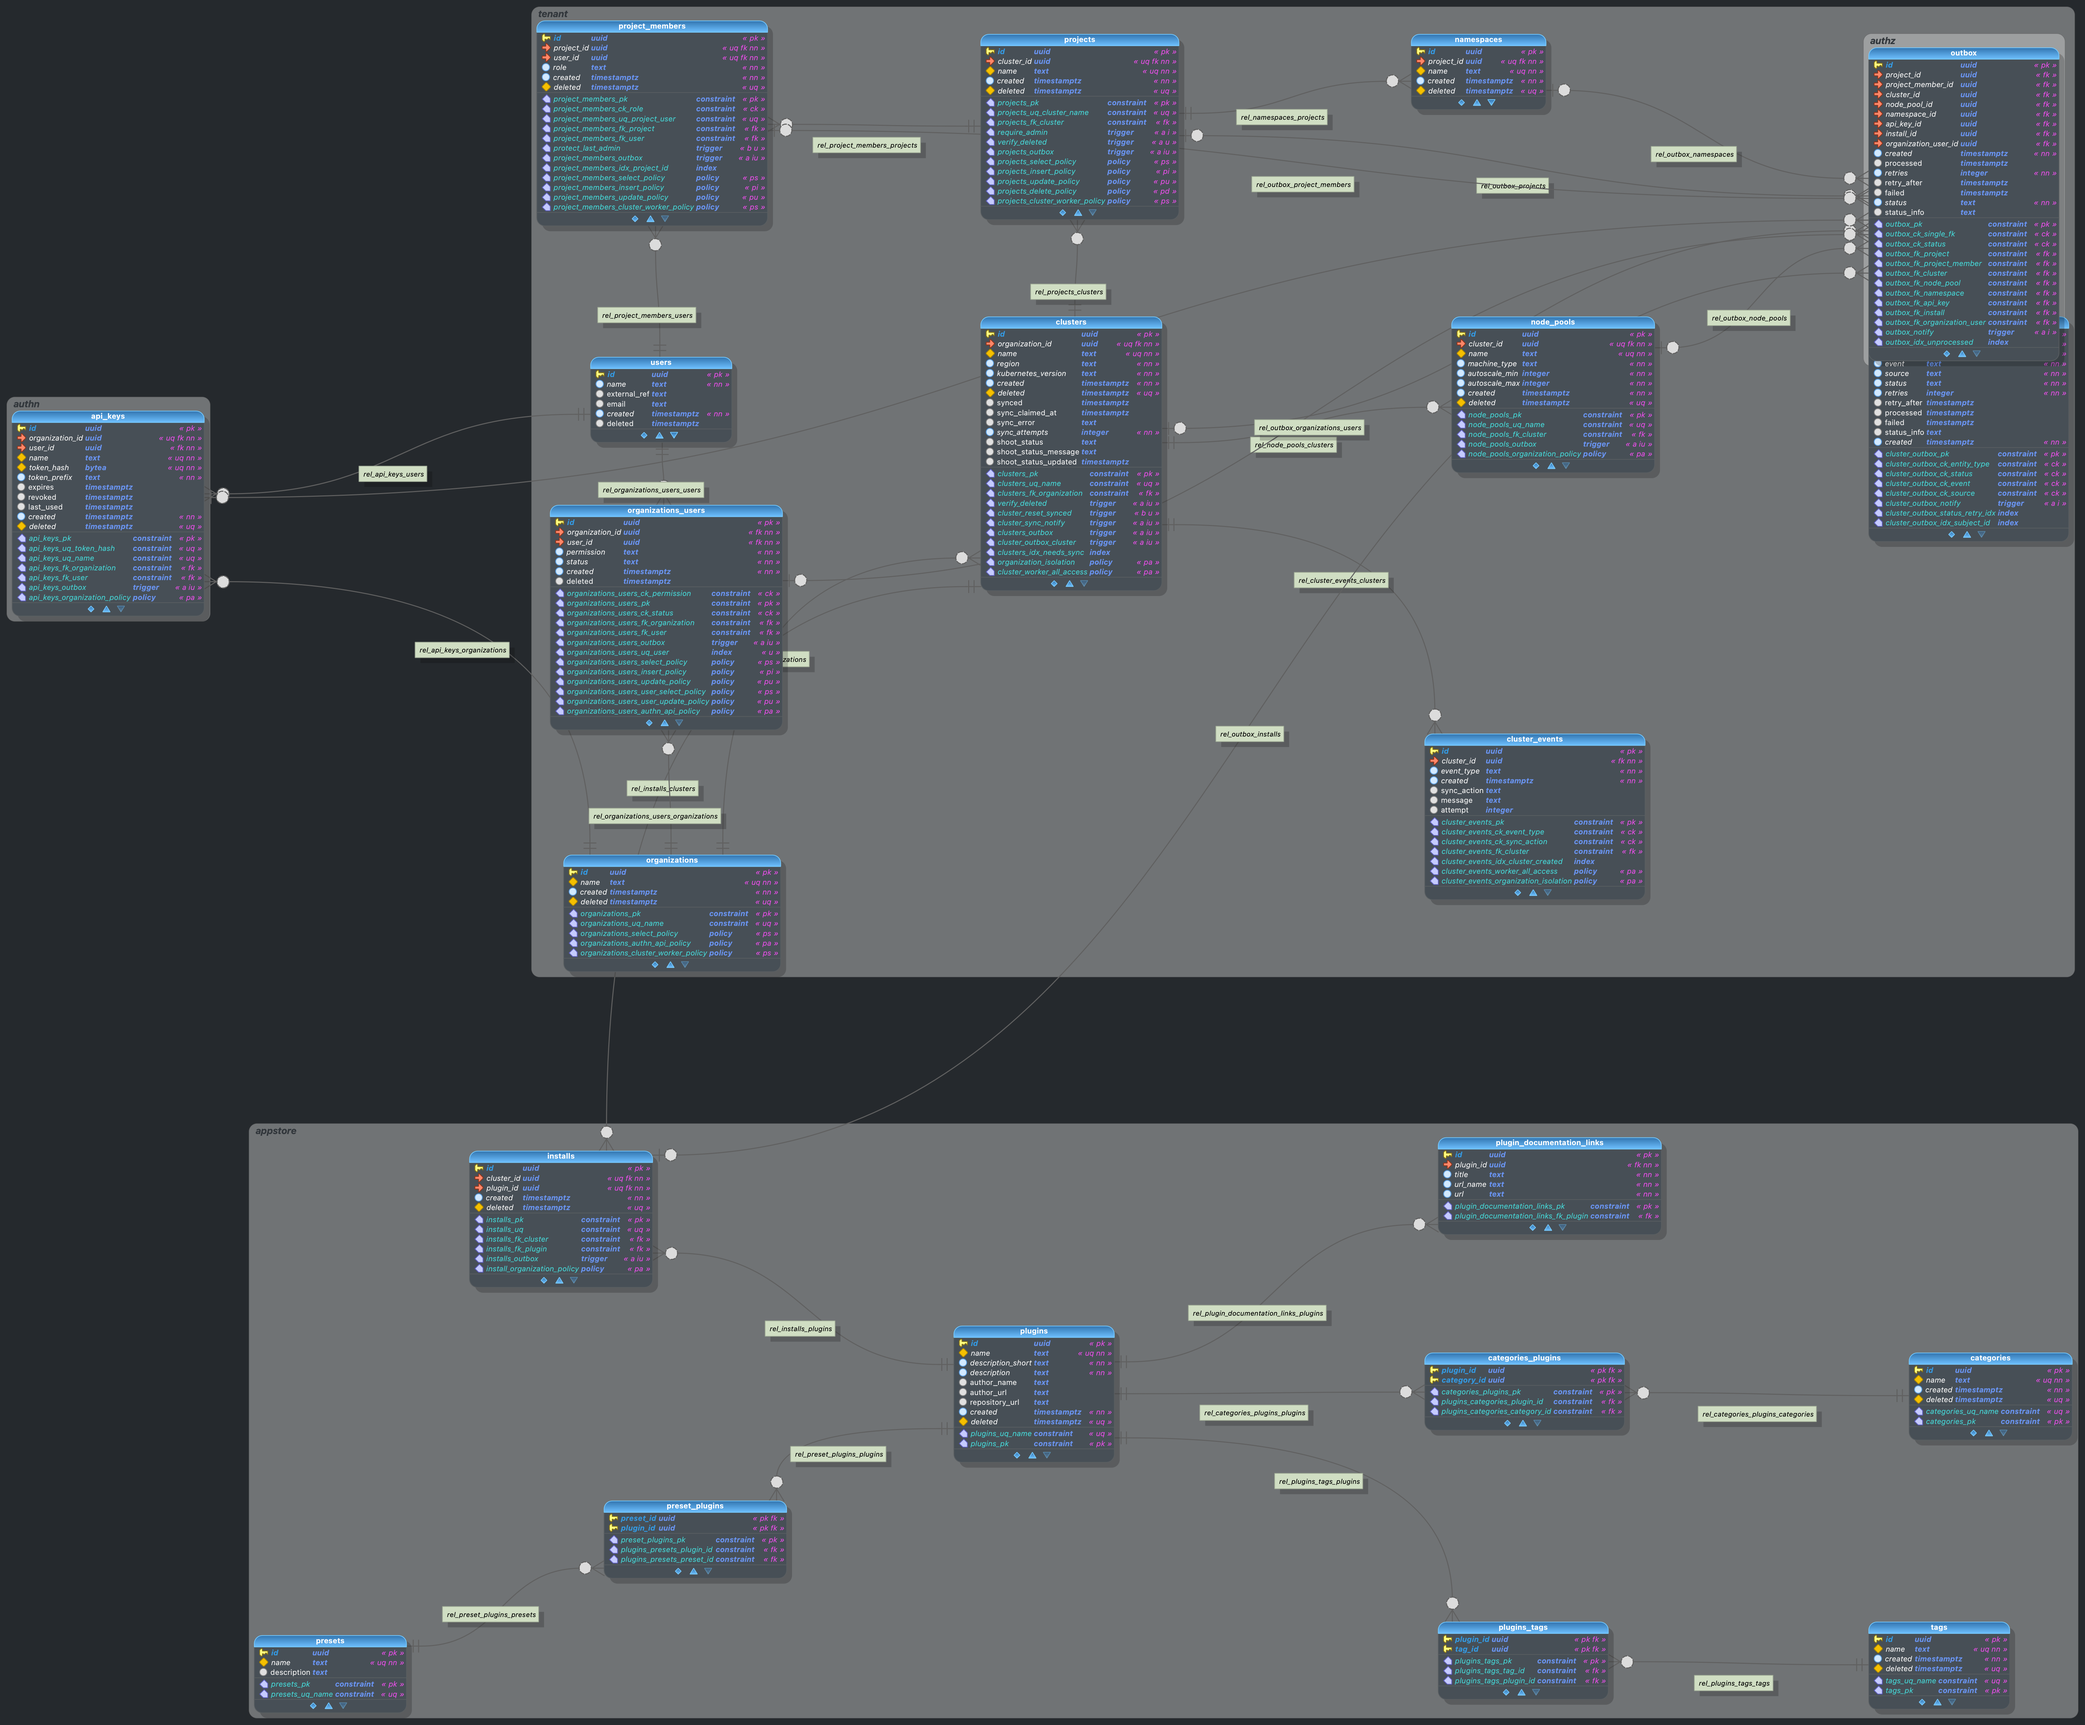
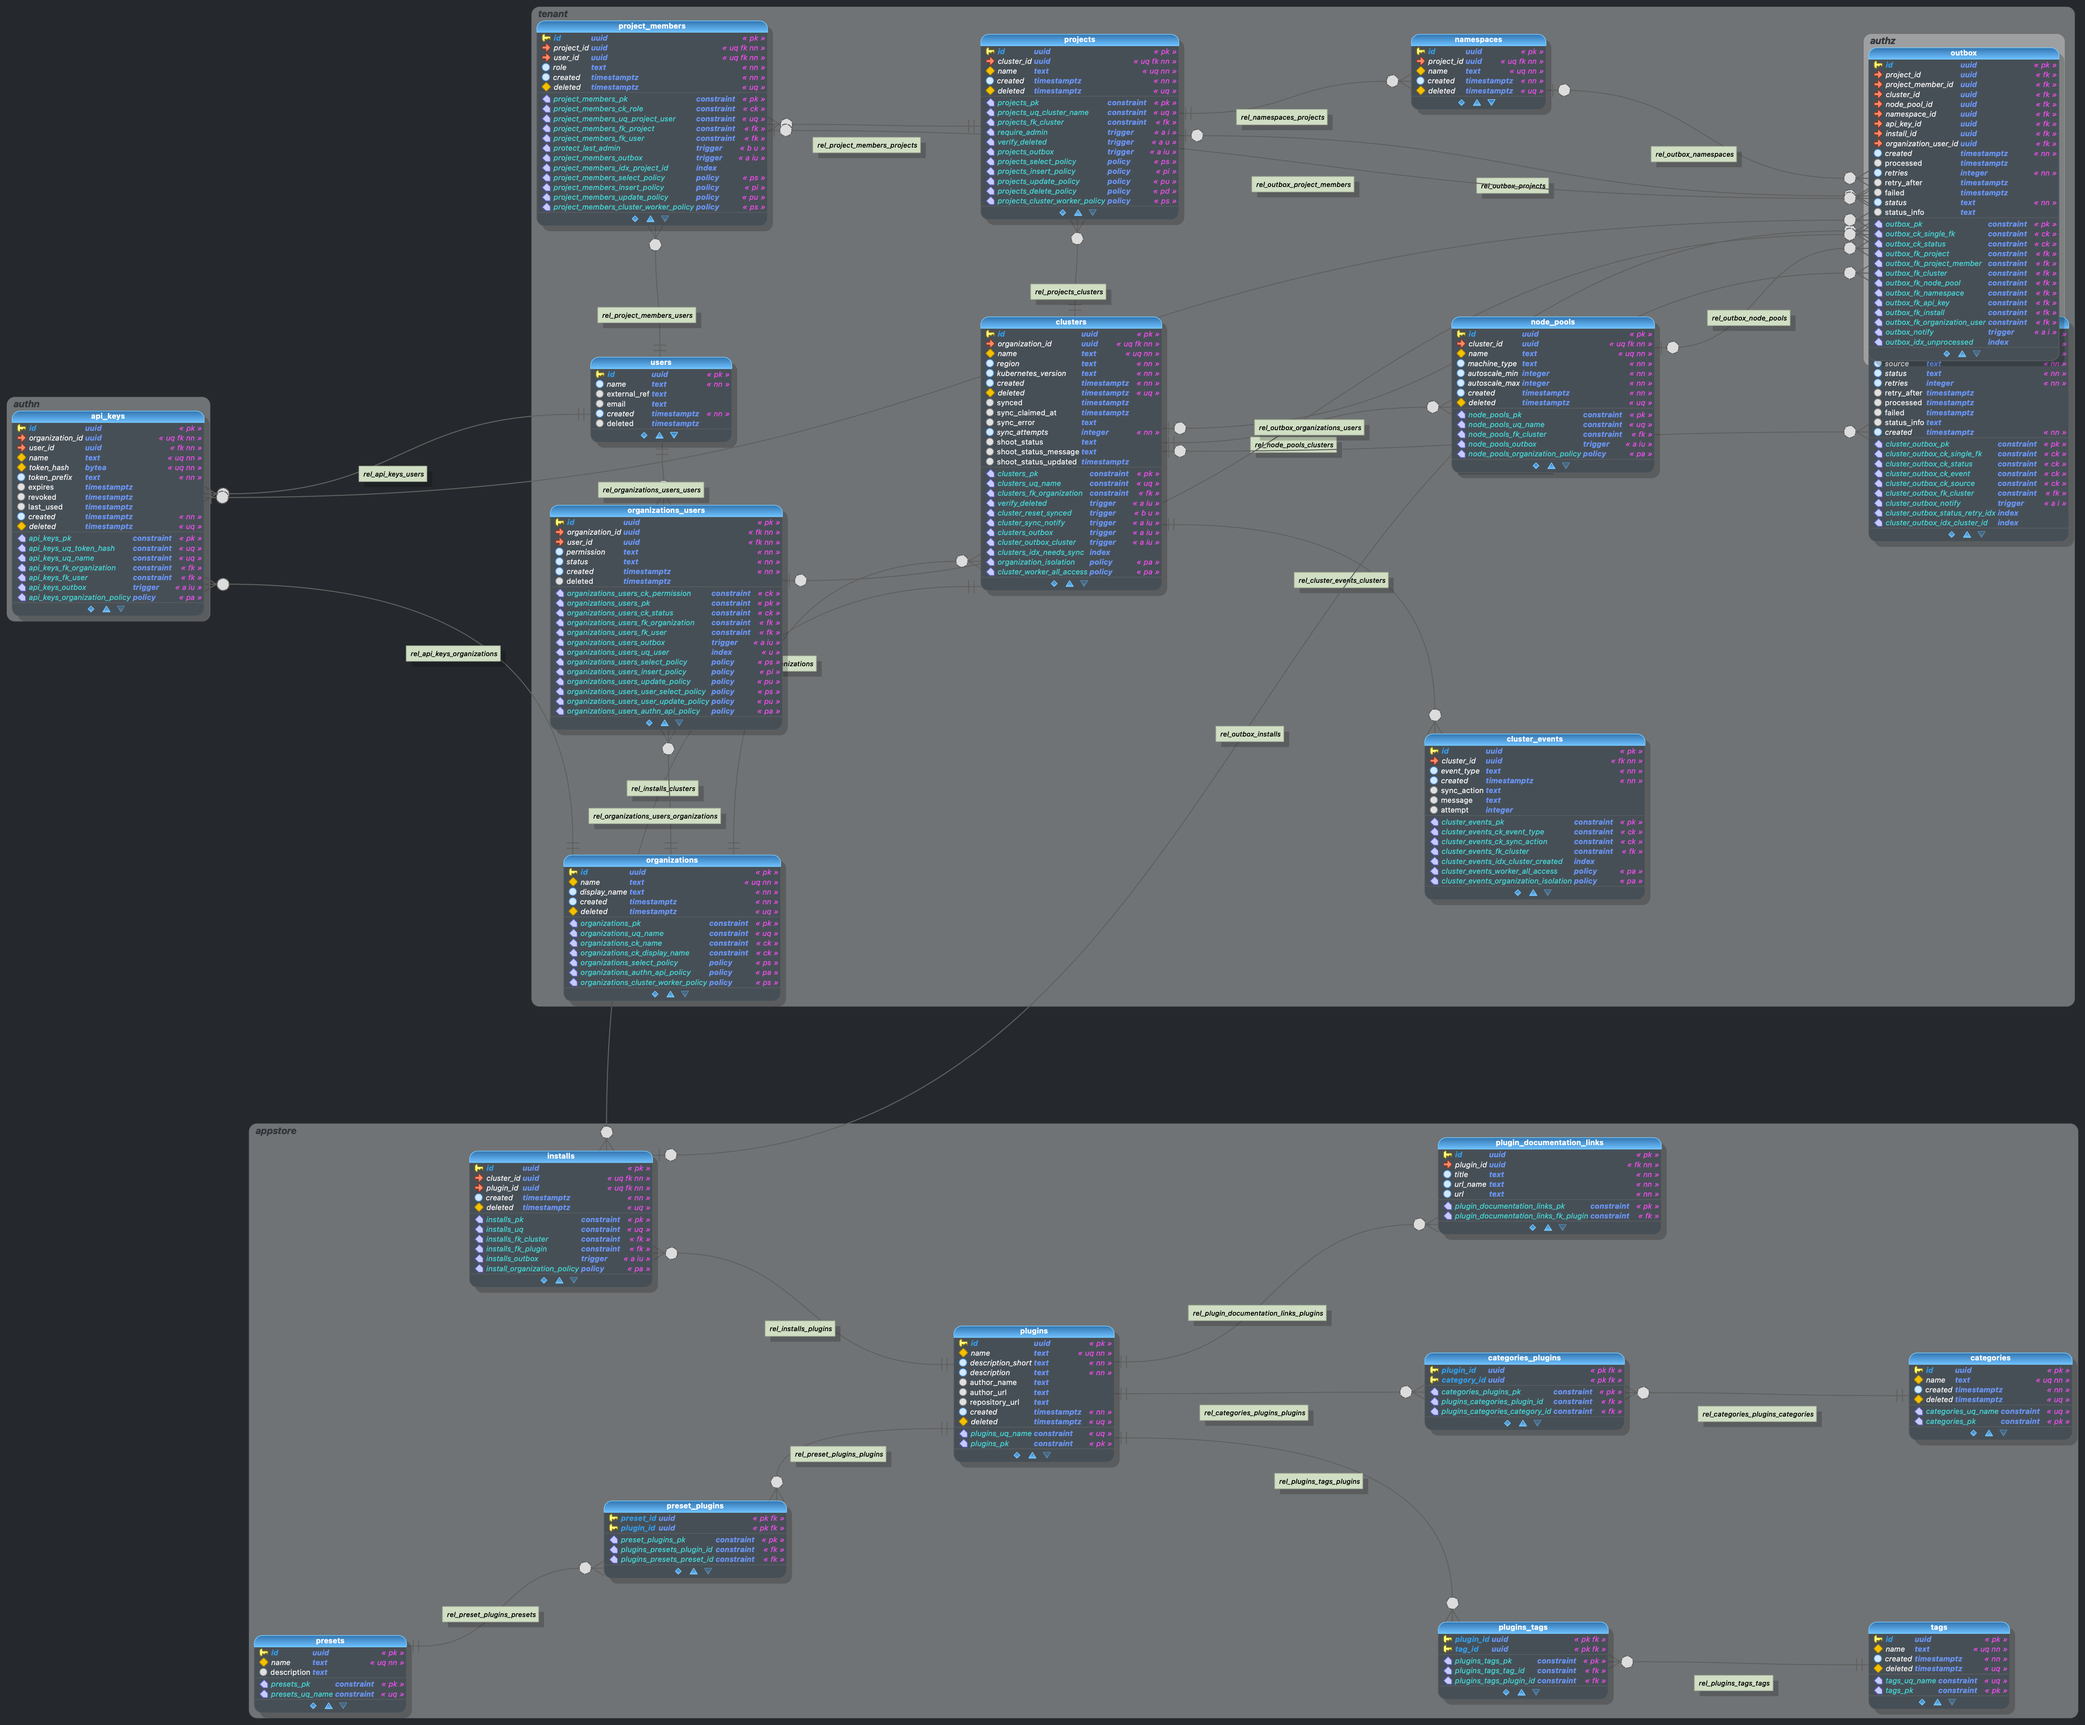
chore: rebase fixes

diff --git a/common/dbconst/constraints.go b/common/dbconst/constraints.go
@@ -19,14 +19,16 @@ const (
 	ConstraintClusterEventsCkSyncAction = "cluster_events_ck_sync_action"
 	// ConstraintClusterEventsFkCluster is defined on tenant.cluster_events.
 	ConstraintClusterEventsFkCluster = "cluster_events_fk_cluster"
-	// ConstraintClusterOutboxCkEntityType is defined on tenant.cluster_outbox.
-	ConstraintClusterOutboxCkEntityType = "cluster_outbox_ck_entity_type"
 	// ConstraintClusterOutboxCkEvent is defined on tenant.cluster_outbox.
 	ConstraintClusterOutboxCkEvent = "cluster_outbox_ck_event"
+	// ConstraintClusterOutboxCkSingleFk is defined on tenant.cluster_outbox.
+	ConstraintClusterOutboxCkSingleFk = "cluster_outbox_ck_single_fk"
 	// ConstraintClusterOutboxCkSource is defined on tenant.cluster_outbox.
 	ConstraintClusterOutboxCkSource = "cluster_outbox_ck_source"
 	// ConstraintClusterOutboxCkStatus is defined on tenant.cluster_outbox.
 	ConstraintClusterOutboxCkStatus = "cluster_outbox_ck_status"
+	// ConstraintClusterOutboxFkCluster is defined on tenant.cluster_outbox.
+	ConstraintClusterOutboxFkCluster = "cluster_outbox_fk_cluster"
 	// ConstraintClustersFkOrganization is defined on tenant.clusters.
 	ConstraintClustersFkOrganization = "clusters_fk_organization"
 	// ConstraintClustersUqName is defined on tenant.clusters.

diff --git a/common/dbconst/enums.go b/common/dbconst/enums.go
@@ -24,13 +24,6 @@ const (
 	ClusterEventSyncAction_Delete ClusterEventSyncAction = "delete"
 )
 
-// ClusterOutboxEntityType represents valid values for tenant.cluster_outbox.entity_type.
-type ClusterOutboxEntityType string
-
-const (
-	ClusterOutboxEntityType_Cluster ClusterOutboxEntityType = "cluster"
-)
-
 // ClusterOutboxEvent represents valid values for tenant.cluster_outbox.event.
 type ClusterOutboxEvent string
 
